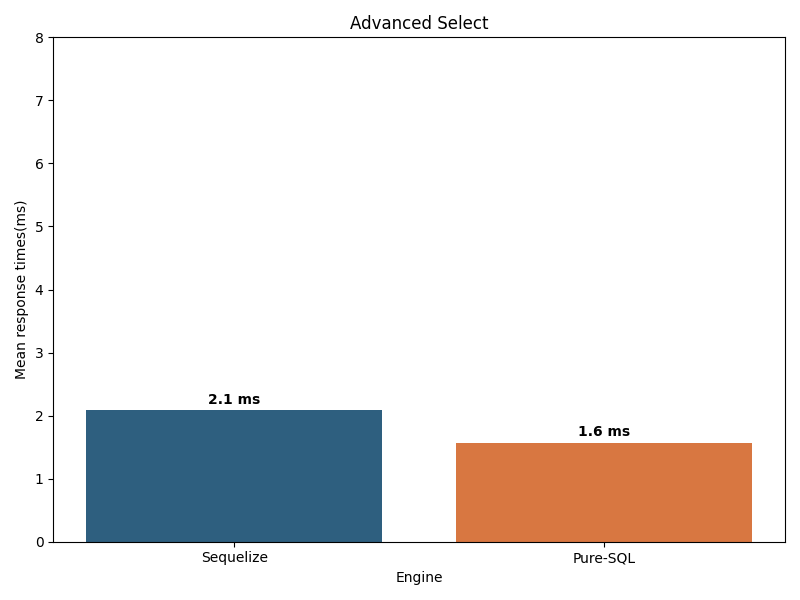
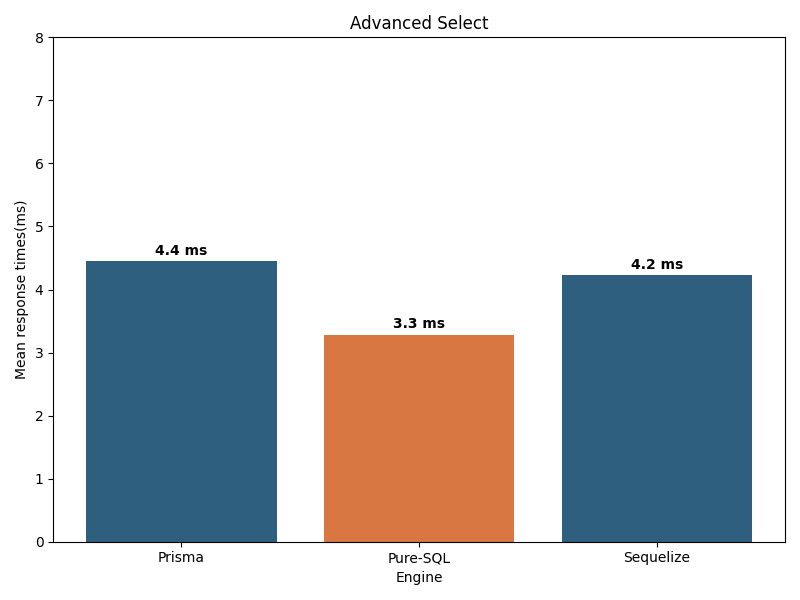
small bug fix with graphs

Changed region(s): [[0.0938, 0.39, 0.9375, 0.96], [0.1875, 0.9, 0.3125, 0.96]]

diff --git a/python-scripts/box-plot-memory-graph.py b/python-scripts/box-plot-memory-graph.py
@@ -17,9 +17,9 @@ def extract_newman_memory_use(filename):
 
     return memory_use_list
 
-prisma_memory_use = extract_newman_memory_use("reports/Select/report-Prisma_SimpleSelect-100-16-19-20.json")
-sequelize_memory_use = extract_newman_memory_use("reports/Select/report-Sequelize_SimpleSelect-100-14-32-05.json")
-sql_memory_use = extract_newman_memory_use("reports/Select/report-SQL_SimpleSelect-100-14-30-11.json")
+prisma_memory_use = extract_newman_memory_use("reports/Select/report-Prisma_SimpleSelect-10000-16-22-29.json")
+sequelize_memory_use = extract_newman_memory_use("reports/Select/report-Sequelize_SimpleSelect-10000-14-57-10.json")
+sql_memory_use = extract_newman_memory_use("reports/Select/report-SQL_SimpleSelect-10000-14-40-09.json")
 
 engines = ['Prisma', 'Pure-SQL', 'Sequelize']
 all_memory = [prisma_memory_use, sql_memory_use, sequelize_memory_use]
@@ -32,7 +32,7 @@ colors = ['#2E5F7F', '#D87741', '#2E5F7F']
 for patch, color in zip(bp['boxes'], colors):
     patch.set_facecolor(color)
 
-plt.ylim(bottom=30, top=32)
+plt.ylim(bottom=30, top=34)
 
 plt.title(Title)
 plt.ylabel('Mean memory use (MB)')

diff --git a/python-scripts/box-plot-speed-graph.py b/python-scripts/box-plot-speed-graph.py
@@ -17,9 +17,9 @@ def extract_newman_times(filename):
 
     return times_list
 
-prisma_times = extract_newman_times("reports/Select/report-Prisma_SimpleSelect-100-16-19-20.json")
-sequelize_times = extract_newman_times("reports/Select/report-Sequelize_SimpleSelect-100-14-32-05.json")
-sql_times = extract_newman_times("reports/Select/report-SQL_SimpleSelect-100-14-30-11.json")
+prisma_times = extract_newman_times("reports/Select/report-Prisma_SimpleSelect-10000-16-22-29.json")
+sequelize_times = extract_newman_times("reports/Select/report-Sequelize_SimpleSelect-10000-14-57-10.json")
+sql_times = extract_newman_times("reports/Select/report-SQL_SimpleSelect-10000-14-40-09.json")
 
 engines = ['Prisma', 'Pure-SQL', 'Sequelize']
 all_time = [prisma_times, sql_times, sequelize_times]

diff --git a/python-scripts/speed-graph.py b/python-scripts/speed-graph.py
@@ -38,8 +38,8 @@ print()
 print(f"SQL mean [{mean_sql:.3f}]")
 print(f"SQL 95% CI [{sql_interval[0]:.3f}, {sql_interval[1]:.3f}]")
 
-engines = ['Prisma', 'Sequelize', 'Pure-SQL']
-average = [mean_prisma, mean_sequelize, mean_sql]
+engines = ['Prisma', 'Pure-SQL', 'Sequelize', ]
+average = [mean_prisma, mean_sql, mean_sequelize, ]
 
 plt.figure(figsize=(8, 6))
 plt.bar(engines, average, color=['#2E5F7F', '#D87741', '#2E5F7F'], alpha=1)

diff --git a/python-scripts/memory-graph.py b/python-scripts/memory-graph.py
@@ -39,7 +39,7 @@ print(f"SQL mean [{mean_sql:.3f}]")
 print(f"SQL 95% CI [{sql_interval[0]:.3f}, {sql_interval[1]:.3f}]")
 
 engines = ['Prisma', 'Pure-SQL', 'Sequelize']
-average = [mean_prisma, mean_sql, mean_Sequelize]
+average = [mean_prisma, mean_sql, mean_sequelize]
 
 plt.figure(figsize=(8, 6))
 plt.bar(engines, average, color=['#2E5F7F', '#D87741', '#2E5F7F'], alpha=1)
